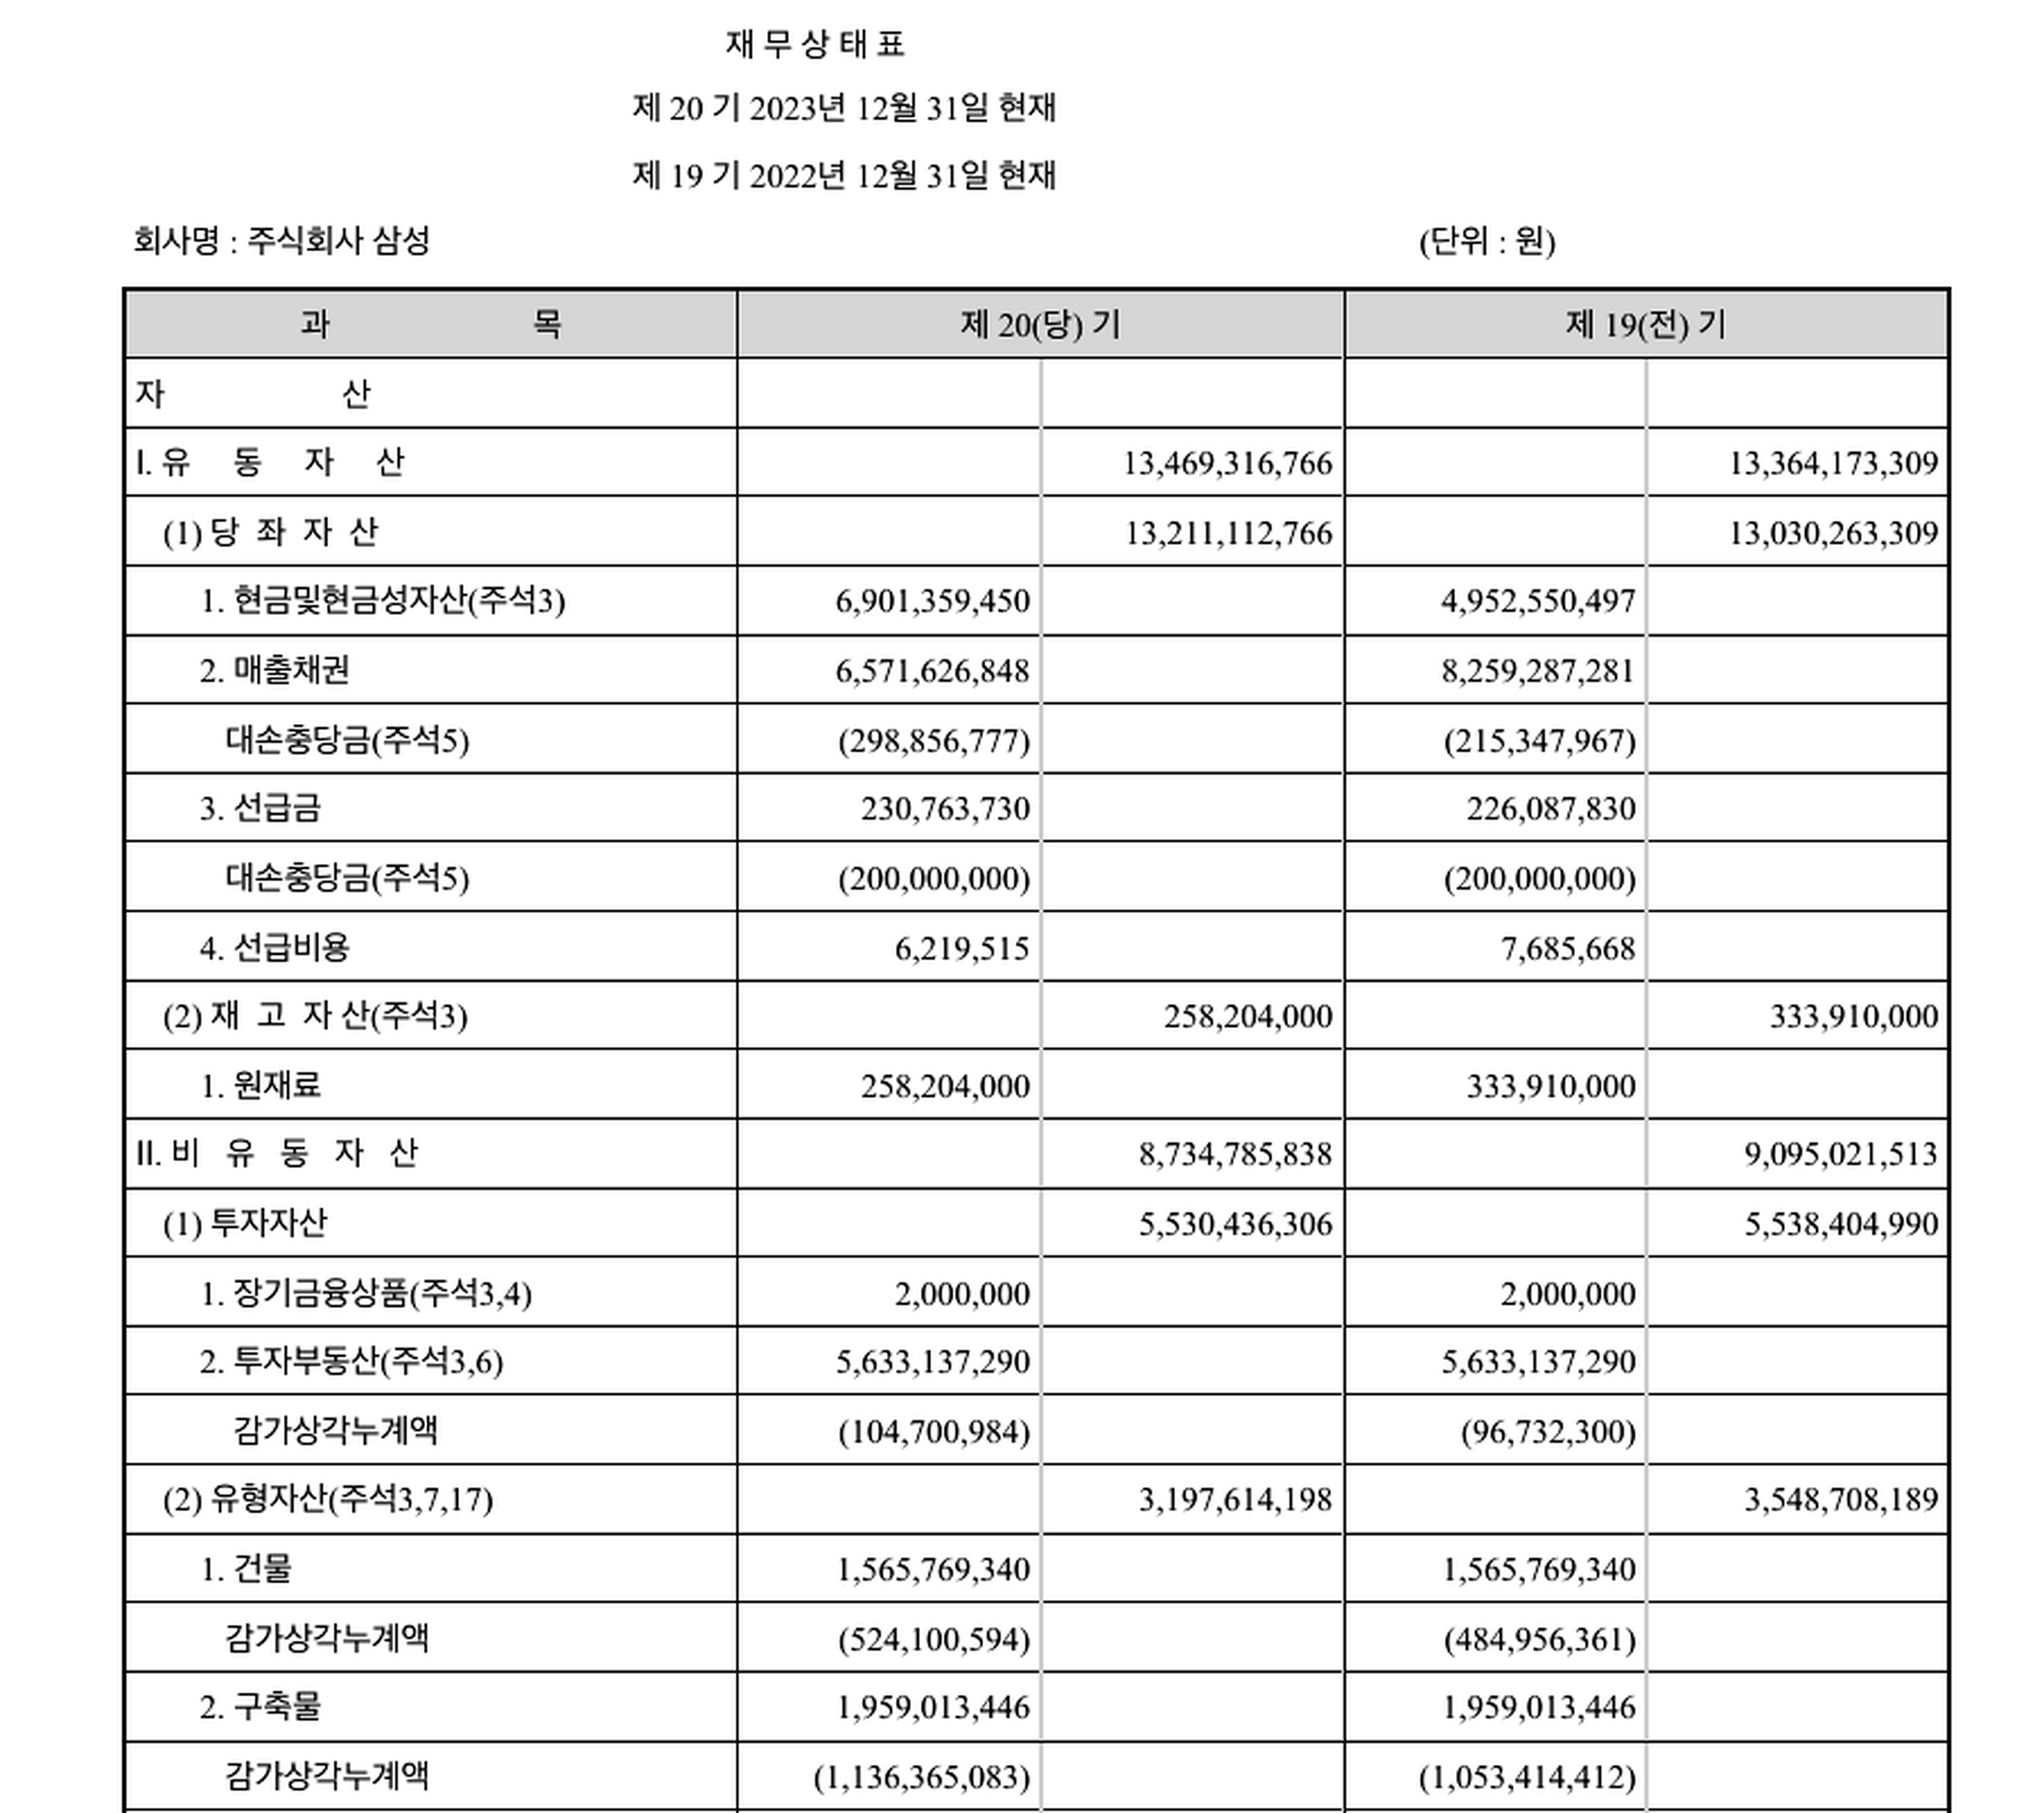
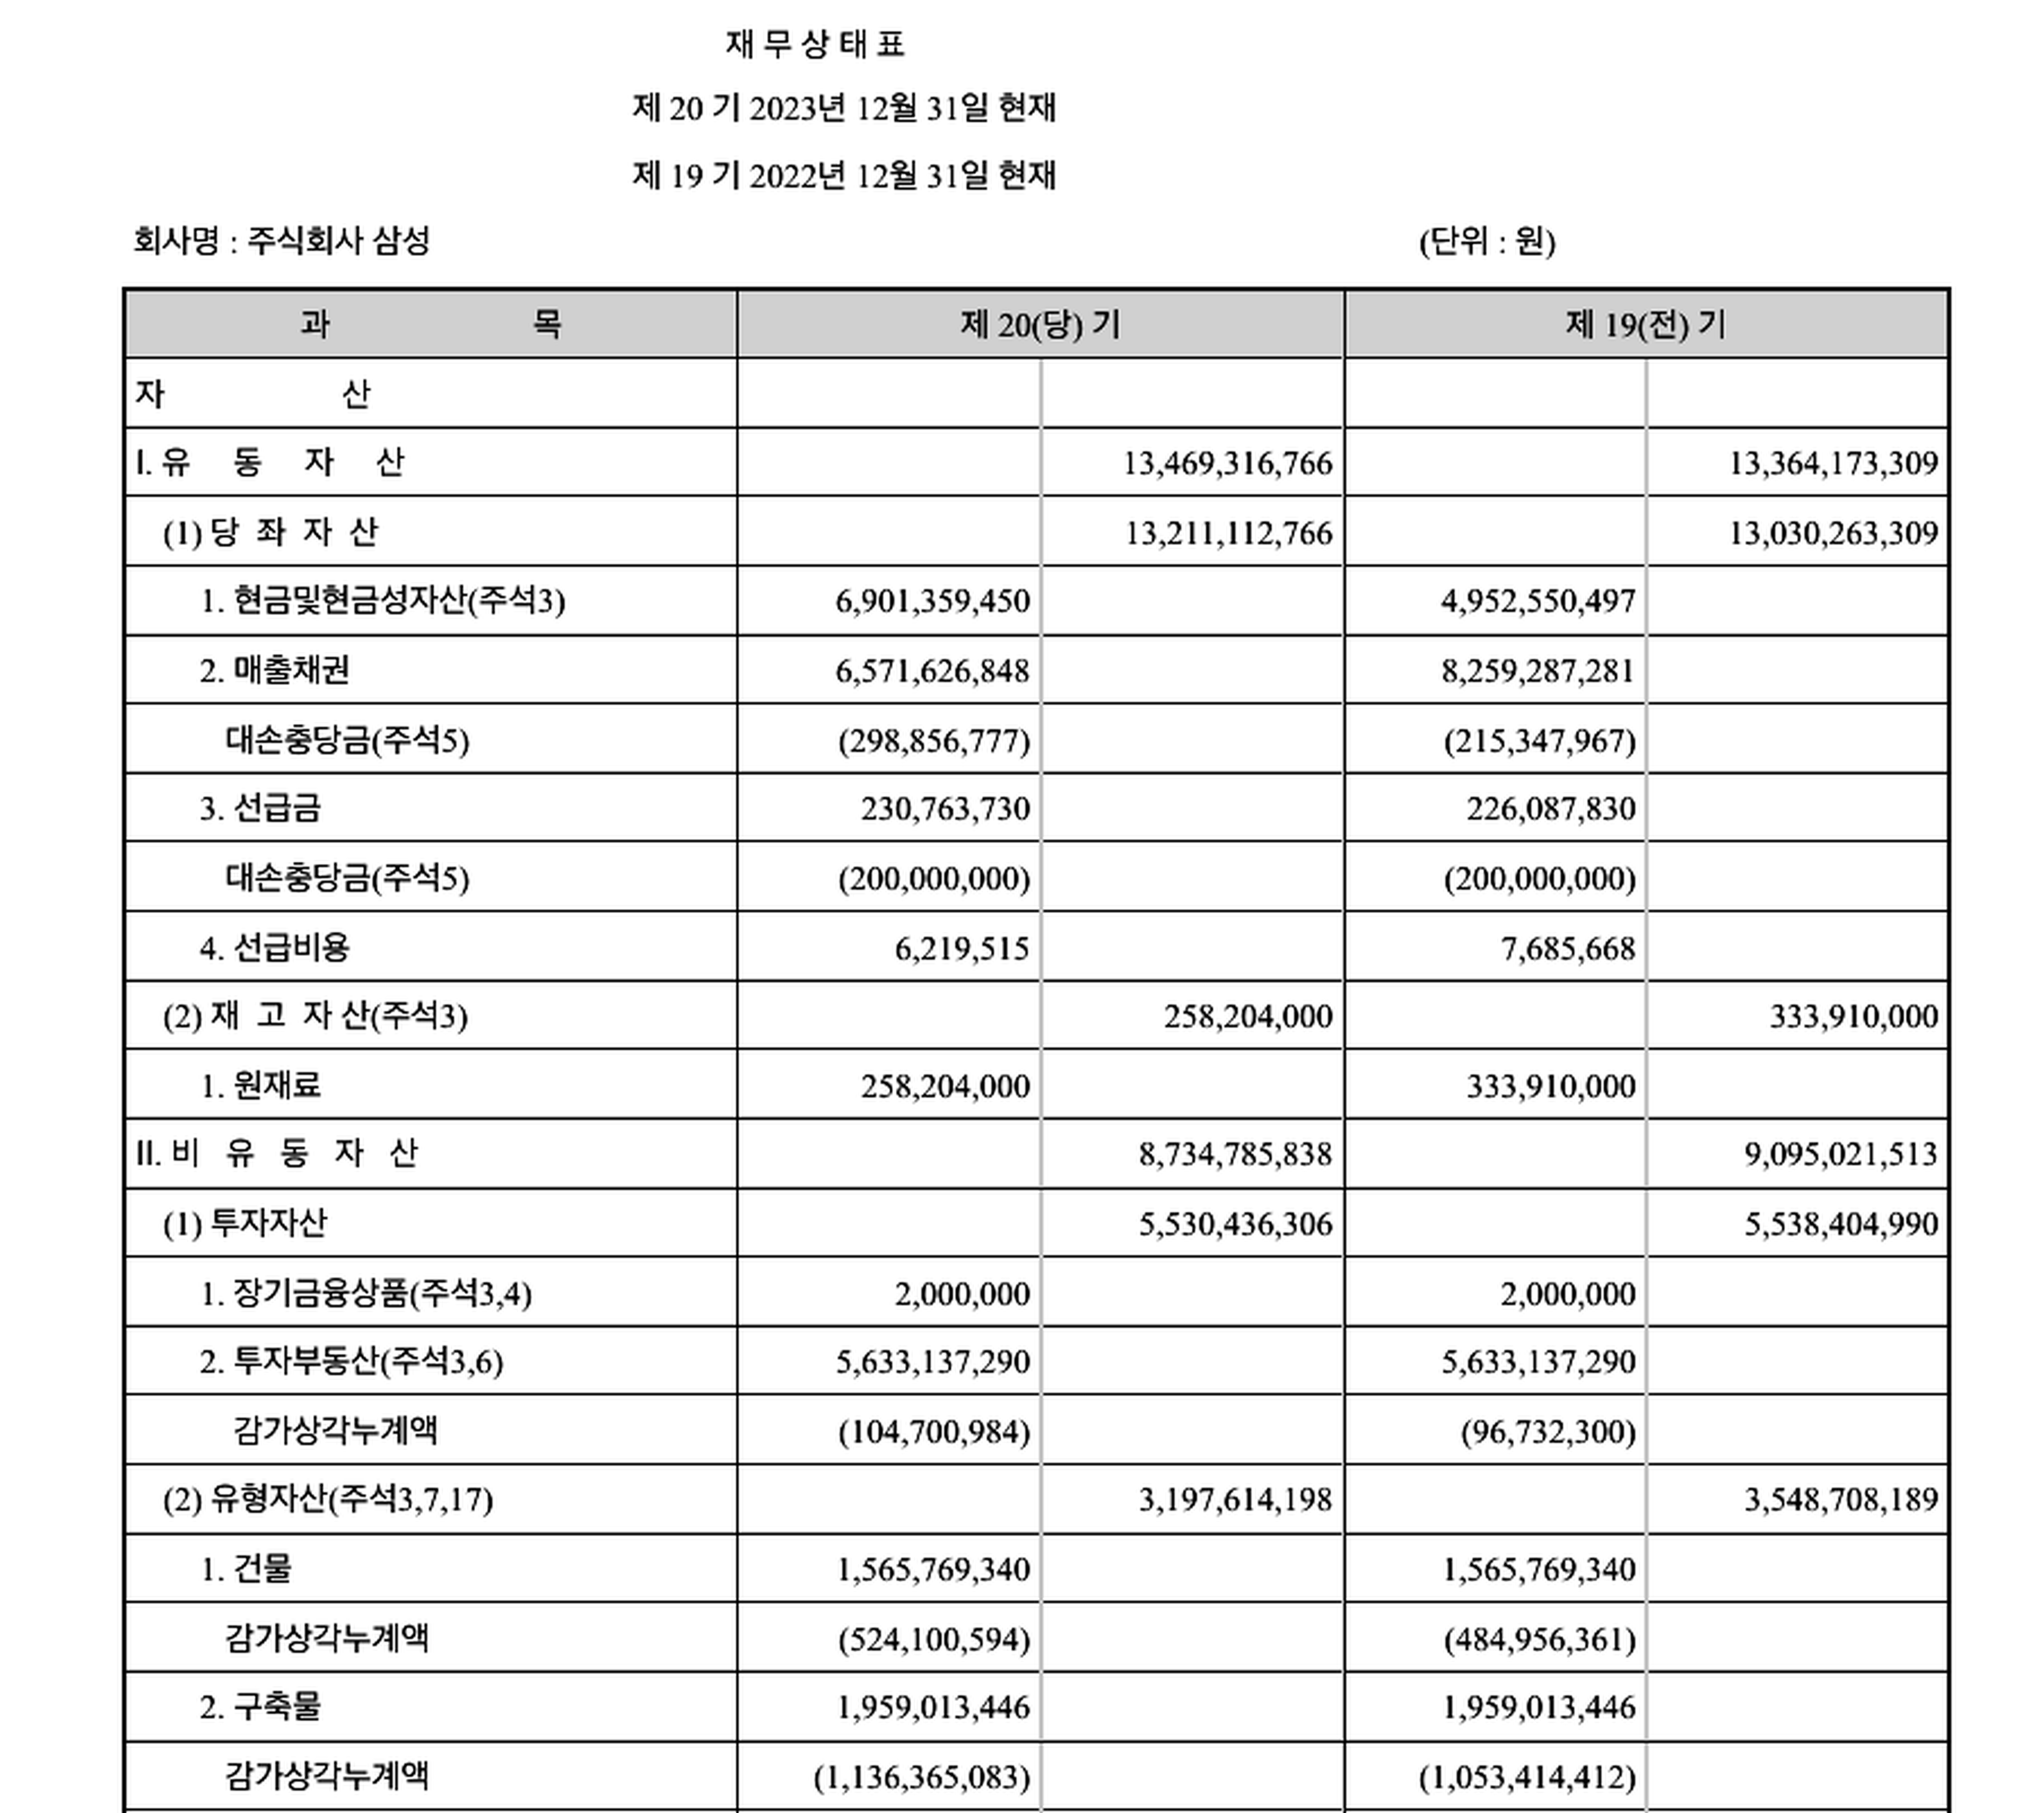
Test용 파일 이름 변경 '*_test'

Changed region(s): [[0.1555, 0.3113, 0.1866, 0.3425], [0.1244, 0.934, 0.1555, 0.9651], [0.1244, 0.4359, 0.1555, 0.467]]

diff --git a/image_processing_test.py b/image_processing_test.py
@@ -7,10 +7,10 @@ def preprocess_image(image):
 
     # 2. 대비 증가
     enhancer = ImageEnhance.Contrast(image)
-    image = enhancer.enhance(1.2)  # 대비 증가 (값 조정 가능)
+    image = enhancer.enhance(1.5)  # 대비 증가 (값 조정 가능)
 
-    # 4. 이진화
-    # threshold = 100  # 이진화 임계값 조정
+    # # 4. 이진화
+    # threshold = 128  # 이진화 임계값 조정
     # image = image.point(lambda p: 255 if p > threshold else 0)
 
     # 5. 해상도 향상
@@ -18,13 +18,13 @@ def preprocess_image(image):
 
     # 6. 선명도 향상
     enhancer = ImageEnhance.Sharpness(image)
-    image = enhancer.enhance(1.5)  # 선명도 증가 (값 조정 가능)
+    image = enhancer.enhance(0)  # 선명도 증가 (값 조정 가능)
     return image
 
 if __name__ == "__main__":
     # 이미지 테스트
     input_image_path = "media/감사보고서.png"  # 입력 이미지 경로
-    output_image_path = "processed image/output_image.png"  # 출력 이미지 경로
+    output_image_path = "processed image_test/output_image.png"  # 출력 이미지 경로
 
     # 이미지 열기
     try:
